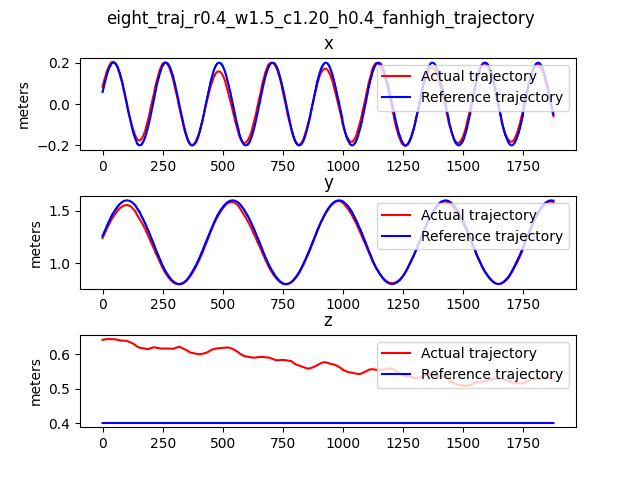
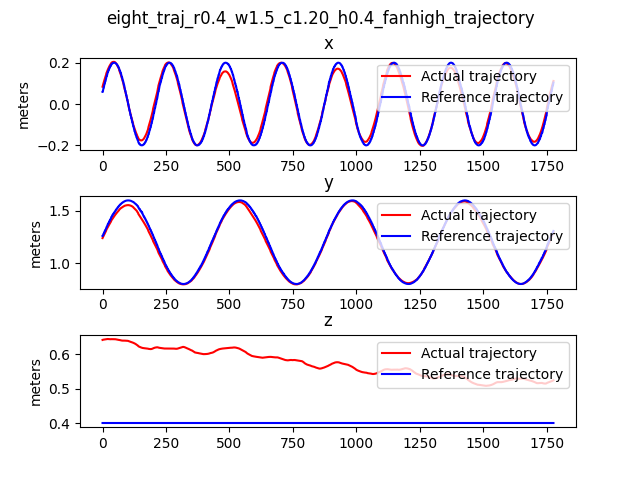
added comments

diff --git a/GP/gp_advanced/plot_trajectory_ref.py b/GP/gp_advanced/plot_trajectory_ref.py
@@ -1,10 +1,16 @@
+##################################################################################################################################################################
+############ Use this file to visualize the trajectory taken and the reference trajecotry.                                  #############################
+############ Adjust the values of 'threshold' (lower bound) and 'cutoff' (upper bound) to crop off takeoff and landing data #############################
+##################################################################################################################################################################
 #ros2 bag record -o drone_trajectory /px4_1/fmu/out/
 #ros2 bag info drone_trajectory.bag
+
 from rosbags.rosbag2 import Reader
 from rosbags.typesys import Stores, get_typestore, get_types_from_msg
 #from geometry_msgs.msg import TransformStamped
 from pathlib import Path
 import numpy as np
+
 import csv
 import matplotlib.pyplot as plt
 from mpl_toolkits.mplot3d import Axes3D
@@ -19,40 +25,55 @@ height = 0.4
 angular_vel = 1.0 #rad/s
 center_x = 0
 center_y = 0
+
 home_path = '/Users/albusfang/Coding Projects/gp_ws/Gaussian Process/GP/gp_advanced/recorded_data/'
 
 
 ######################## Circle Paths ##################
-##### NOTE: The calculated 'threshold' and 'cutoff' for each dataset is calculated and displayed beneath the bag_path of the dataset ######
-##### NOTE: Replace the 'threshold' and 'cutoff' variables in this file with the value beneath each bag_path #####
-home_path = home_path + 'circle_data'
+##### NOTE: The 'threshold' and 'cutoff' for each dataset are calculated and displayed beneath the bag_path of the dataset ######
+##### NOTE: Replace the 'threshold' and 'cutoff' variables in this file with the value beneath each bag_path. Please do not uncomment the values #####
+home_path = home_path + 'circle_data/'
 #bag_path = '/Users/albusfang/Coding Projects/gp_ws/Gaussian Process/GP/data_prep/cir_traj_r0.4_w2_c0.40_h0.4_fanhigh'
-#(1200, len-700)
-bag_path = home_path + 'cir_traj_r0.3_w1.5_c00.4_h0.4_fanhigh'
-#(1600, len-1200)
+#(1200, len(x_data)-700)
+#bag_path = home_path + 'cir_traj_r0.3_w1.5_c00.4_h0.4_fanhigh'
+#(1600, len(x_data)-1200)
 #bag_path = home_path + 'cir_traj_r0.3_w1.5_c0.40_h0.4_fanhigh'
-#(1400, len-900)
+#(1400, len(x_data)-900)
 #bag_path = '/Users/albusfang/Coding Projects/gp_ws/Gaussian Process/GP/gp_advanced/recorded_data/cir_traj_r0.4_w2.5_c0.60_h0.4_fanhigh'
-#(780, len -1600)
+#(780, len(x_data) -1600)
 #bag_path = '/Users/albusfang/Coding Projects/gp_ws/Gaussian Process/GP/gp_advanced/recorded_data/cir_traj_r0.4_w3_c0.80_h0.4_fanhigh'
-#(1000, len-1000)
+#(1000, len(x_data)-1000)
 #bag_path = '/Users/albusfang/Coding Projects/gp_ws/Gaussian Process/GP/gp_advanced/recorded_data/cir_traj_r0.4_w3_c10_h0.4_fanhigh'
-#(800, len-800)
+#(800, len(x_data)-800)
 #bag_path = '/Users/albusfang/Coding Projects/gp_ws/Gaussian Process/GP/gp_advanced/recorded_data/eight_traj_r0.4_w2_c0.40_h0.4_fanhigh'
-#(1000, len - 2500)
+#(1000, len(x_data) - 2500)
 
 ######################## Figure Eight Paths ##################
 
 home_path = home_path.replace('circle_data', 'eight_data')
 
+# bag_path = home_path + 'eight_traj_r0.2_w1.5_c0.80_h0.4_fanhigh'
+#(threshold, cutoff) = (1200, len(x_data)-3500)
+bag_path = home_path + 'eight_traj_r0.2_w2_c1.20_h0.4_fanhigh'
+#(threshold, cutoff) = (200, len(x_data)-800)
+#bag_path = home_path + 'eight_traj_r0.2_w2.5_c1.20_h0.4_fanhigh'
+#(threshold, cutoff) = (600, len(x_data)-600)
 #bag_path = home_path + 'eight_traj_r0.4_w1.5_c1.20_h0.4_fanhigh'
+#(threshold, cutoff) = (100, len(x_data)-100)
+#bag_path = home_path + 'eight_traj_r0.4_w1.5_c10_h0.4_fanhigh'
+#(threshold, cutoff) = (600, len(x_data)-800)
+#bag_path = home_path + 'eight_traj_r0.4_w2_c0.40_h0.4_fanhigh'
+#(threshold, cutoff) = (1000, len(x_data)-3000)
+#bag_path = home_path + 'eight_traj_r0.4_w2_c10_h0.4_fanhigh'
+#(threshold, cutoff) = (200, len(x_data)-600)
+#bag_path = home_path + 'eight_traj_r0.4_w2.5_c10_h0.4_fanhigh'
+#(threshold, cutoff) = (100, len(x_data)-600)
+#bag_path = home_path + 'eight_traj_r0.6_w1.5_c10_h0.4_fanhigh'
+#(threshold, cutoff) = (100, len(x_data)-100)
 
 
 
-
-
-
-# Define the topics you want to extract data from
+# Define the topics we want to extract data from
 topic_name = '/drone/combined_data' # Add more topics as needed
 png_name = bag_path.split('/')[-1]+'_trajectory'
 
@@ -112,8 +133,8 @@ with Reader(bag_path) as reader:
 # print("z max: ", max(z_data))
 # print("z min: ", min(z_data))
 assert len(x_data) == len(y_data) == len(z_data), "Lengths of the lists are not the same."
-cutoff = len(x_data) - 0
-threshold = 100
+cutoff = len(x_data) - 800
+threshold = 200
 
 
 print("cutoff, threshold = ", cutoff, threshold)

diff --git a/GP/gp_advanced/fft.py b/GP/gp_advanced/fft.py
@@ -1,3 +1,9 @@
+#######################################################################################################
+####### Use this file to load any npy file and analyze its frequency domain counterpart           #####
+####### The file also automatically filters out the high-frequency noise                          #####
+####### NOTE: the low pass filter calculates cutoff frequency by adding a hard-coded value to the #####
+####### frequency of the highest peak in frequency domain. Adjust this value if needed            #####
+#######################################################################################################
 import numpy as np
 import matplotlib.pyplot as plt
 from scipy.fftpack import fft, fftfreq
@@ -6,7 +12,7 @@ from plot_trajectory_ref import bag_path, cutoff, threshold
 
 signal = np.load("recorded_acc.npy")
 #signal = np.load("cmd_arr.npy")
-signal = np.load("disturbance.npy")
+#signal = np.load("disturbance.npy")
 cutoff = signal.shape[0]
 threshold = 0
 signal = signal[:,0][threshold:cutoff]
@@ -86,7 +92,7 @@ def fft_filter(signal, sampling_rate = 5000):
         b, a = butter(order, normal_cutoff, btype='low', analog=False)
         y = filtfilt(b, a, data)
         return y
-
+    ####### NOTE: Replace 80 if necessary to calculate the cutoff frequency ######
     cutoff_freq = peak_frequency+80 #Hz
     filtered_signal = filtered_data = butter_lowpass_filter(signal, cutoff_freq, fs)
     return filtered_signal

diff --git a/GP/gp_advanced/plot_acc.py b/GP/gp_advanced/plot_acc.py
@@ -96,6 +96,7 @@ filtered_acc = apply_fft_filter_to_columns(acc_arr, sampling_rate=5000)
 acc_cmd_arr = np.array(acc_cmd_arr)
 #np.save("cmd_arr.npy",acc_cmd_arr)
 filtered_cmd = apply_fft_filter_to_columns(acc_cmd_arr, sampling_rate=5000)
+filtered_cmd = acc_cmd_arr
 #disturbance = filtered_acc - acc_cmd_arr
 disturbance = filtered_acc - filtered_cmd
 assert acc_arr.shape == acc_cmd_arr.shape == disturbance.shape == filtered_acc.shape

diff --git a/GP/gp_advanced/README.md b/GP/gp_advanced/README.md
@@ -12,7 +12,8 @@ Use `plot_acc.py` to plot out filtered `acc_x`, `acc_y`, and `acc_z`. Use `fft.p
 ## Stitching Dataset and Generate Train and Test Dataset
 
 
-To train GP on all collected datasets with various speeds and coordinates, one would need to crop off the takeoff and landing data for each data set and stitch the cropped datasets together. Run `gp_data_prep.py` to first filter the disturbance and then concatenate the data points together. If the new data set is the same as the existing dataset, the new data won't be concatenated.
+To train GP on all collected datasets with various speeds and coordinates, one would need to crop off the takeoff and landing data for each data set and stitch the cropped datasets together. Run `gp_data_prep.py` to first filter the disturbance and then concatenate the data points together. If the new data set is the same as the existing dataset, the new data won't be concatenated. The concatenated disturbance dataset will be stored in `disturbance.py` and the stitched input dataset will be stored in `input.py`; adjust the name to suit your purpose.
+
 
 ## GP Training and Plotting
 
